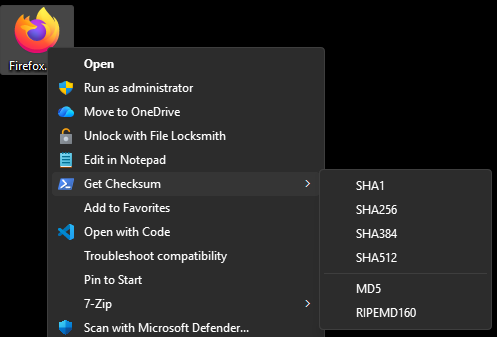
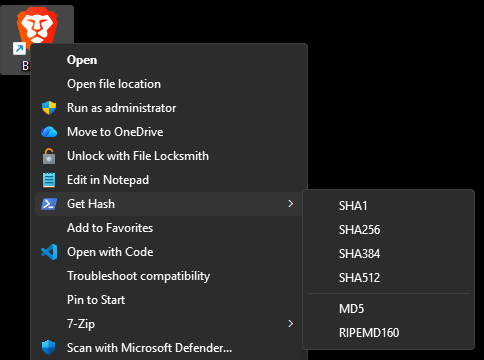
Update README for clarity Change context menu name and update pic

diff --git a/README.md b/README.md
@@ -1,7 +1,7 @@
 # hashfile-contextmenu-expanded
 
-Add commands to get a hash string of a file to context menu of Windows Explorer.  
-The hash string is copied to clipboard and displayed in a popup message.
+Adds file hash generation directly to Windows Explorer context menus.  
+The hash value is copied to clipboard and displayed in a popup message.
 
 ![pic](pic.png)
 
@@ -9,7 +9,7 @@ Hash Algorithms: MD5, SHA1, SHA256, SHA384, SHA512, and RIPEMD160
 
 # Modifications
 
-This fork adds support for additional hash algorithms (SHA384, SHA512, and RIPEMD160). It also gets hash values in uppercase using the PowerShell Get-FileHash command instead of the original certutil, which returned values in lowercase.
+This fork adds support for additional hash algorithms (SHA384, SHA512, and RIPEMD160). It also gets hash values in uppercase using the PowerShell `Get-FileHash` command instead of the original `certutil`, which returned values in lowercase.
 
 Additional changes:
 - Displays a popup message showing the copied hash value with algorithm confirmation
@@ -18,7 +18,7 @@ Additional changes:
 ## Install
 
 **Cascading Menu:**  
-Open `hashfile-contextmenu-add.reg` file to add a "Get Checksum" menu with all hash algorithms as submenu options.
+Open `hashfile-contextmenu-add-all.reg` file to add a "Get Hash" context menu with all hash algorithms as submenu options.
 
 **Individual Menu Entries:**  
 Open individual files to add separate top-level menu entries:
